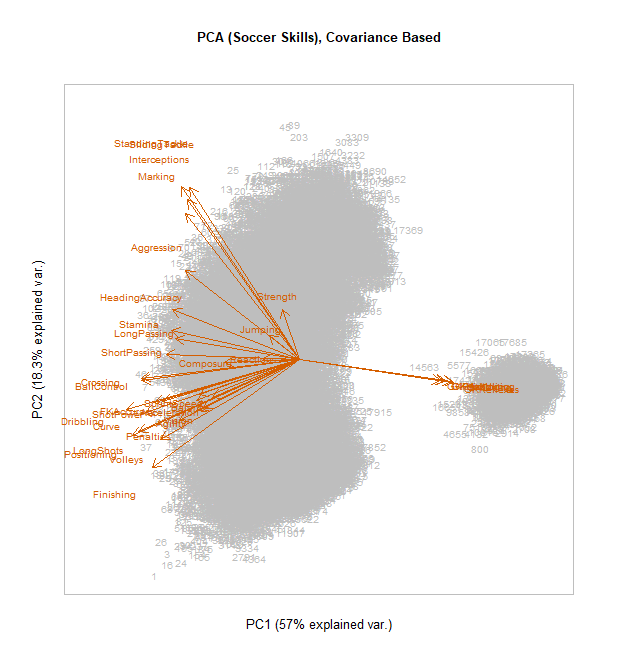
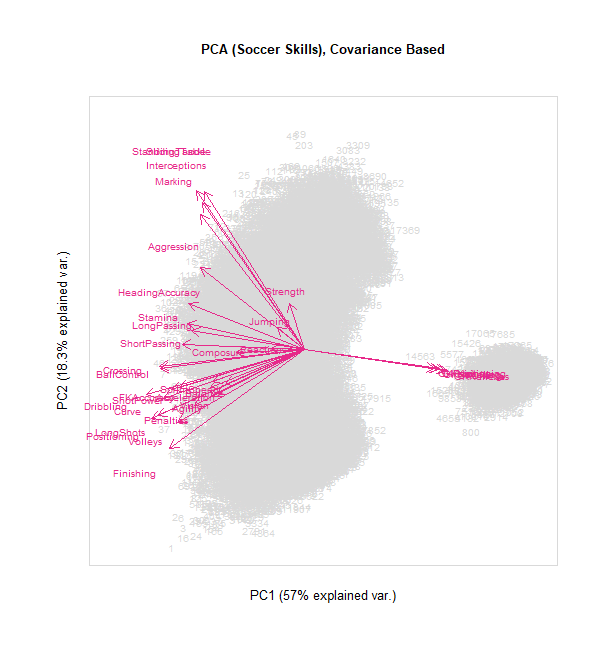
update-with-rcolorbrewer-and-correlation-plots

Changed region(s): [[0.03, 0.1229, 0.9285, 0.8909], [0.2995, 0.0307, 0.7488, 0.0922], [0.3894, 0.8909, 0.6589, 0.9524]]

diff --git a/report/pca/readme.md b/report/pca/readme.md
@@ -1,46 +1,51 @@
 ## PCA with Skill Scores
-
-###### Selected Features  
+  
+###### PCA
+1. Color Palletes: [rcolorbrewer-color-blind-friendly-palletes.R](../../code/rcolorbrewer-color-blind-friendly-palletes.R)  
+  
+![rcolorbrewer-color-blind-friendly-palletes.png](rcolorbrewer-color-blind-friendly-palletes.png)
+  
+2. Selected Features  
   
 ![highlight_feature_usage.png](highlight_feature_usage.png)
   
-###### PCA  
-1. Scripts  
- a. [pca-skill-scores-with-playfield-broader-position.R](../../code/pca-skill-scores-with-playfield-broader-position.R)  
- b. [pca-skill-scores-with-correlated-broader-position.R](../../code/pca-skill-scores-with-correlated-broader-position.R)  
- c. [pca-skill-scores-with-correlated-broader-position-unscaled.R](../../code/pca-skill-scores-with-correlated-broader-position-unscaled.R)  
- d. [pca-skill-scores-screeplot.R](../../code/pca-skill-scores-screeplot.R)  
- e. [pca-skill-scores-biplot.R](../../code/pca-skill-scores-biplot.R)  
- f. [pca-skill-scores-ggbiplot.R](../../code/pca-skill-scores-ggbiplot.R)  
+3. Correlation among Skill Scores: [skill-scores-corrplot.R](../../code/skill-scores-corrplot.R)  
   
-2. Using Broader.Position (based on positional layers in playfield)  
+![skill-scores-corrplot.png](skill-scores-corrplot.png)
+  
+4. Using Broader.Position (based on positional layers in playfield)  
   
 ![Broader.Position.png](Broader.Position.png)
   
-3. Scatter Plot - v1 (with scores in first two PC axes) (Scaled+Unscaled)  
+5. PCA Scatter Plot - v1 (Scaled + Unscaled): [pca-skill-scores-with-playfield-broader-position.R](../../code/pca-skill-scores-with-playfield-broader-position.R)  
   
 ![pca-skill-scores-with-playfield-broader-position.png](pca-skill-scores-with-playfield-broader-position.png)
   
-4. Using Broader.Position (based on correlation of positional scores)  
+6. Using Broader.Position (based on correlation of positional scores)  
   
 ![positional-scores-correlation-plot.png](positional-scores-correlation-plot.png)
   
-5. Scatter Plot - v2 (with scores in first two PC axes) (Scaled+Unscaled)  
+7. PCA Scatter Plot - v2 (Scaled + Unscaled): [pca-skill-scores-with-correlated-broader-position.R](../../code/pca-skill-scores-with-correlated-broader-position.R)  
   
 ![pca-skill-scores-with-correlated-broader-position.png](pca-skill-scores-with-correlated-broader-position.png)
   
-6. Scatter Plot - v2 (with scores in first two PC axes) (only Unscaled)  
+8. PCA Scatter Plot - v2 (only Unscaled): [pca-skill-scores-with-correlated-broader-position-unscaled.R](../../code/pca-skill-scores-with-correlated-broader-position-unscaled.R)  
   
 ![pca-skill-scores-with-correlated-broader-position-unscaled.png](pca-skill-scores-with-correlated-broader-position-unscaled.png)
   
-7. Scree Plot  
+9. Scree Plot: [pca-skill-scores-screeplot.R](../../code/pca-skill-scores-screeplot.R)  
   
-![pca-skill-scores-screeplot.png](pca-skill-scores-screeplot.png)  
+![pca-skill-scores-screeplot.png](pca-skill-scores-screeplot.png)
+
+10. Correlation among Skill Scores: [skill-scores-vs-pcs-corrplot.R](../../code/skill-scores-vs-pcs-corrplot.R)  
   
-8. Biplot - with biplot() function  
+![skill-scores-vs-pcs-corrplot.png](skill-scores-vs-pcs-corrplot.png)
+  
+11. Biplot - with biplot(): [pca-skill-scores-biplot.R](../../code/pca-skill-scores-biplot.R)  
   
 ![pca-skill-scores-biplot.png](pca-skill-scores-biplot.png)
   
-9. Biplot - with ggbiplot() function  
+12. Biplot - with ggbiplot(): [pca-skill-scores-ggbiplot.R](../../code/pca-skill-scores-ggbiplot.R)  
   
 ![pca-skill-scores-ggbiplot.png](pca-skill-scores-ggbiplot.png)
+  
